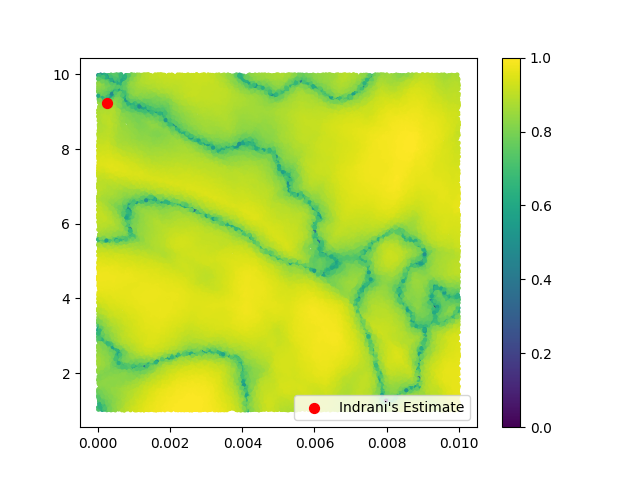
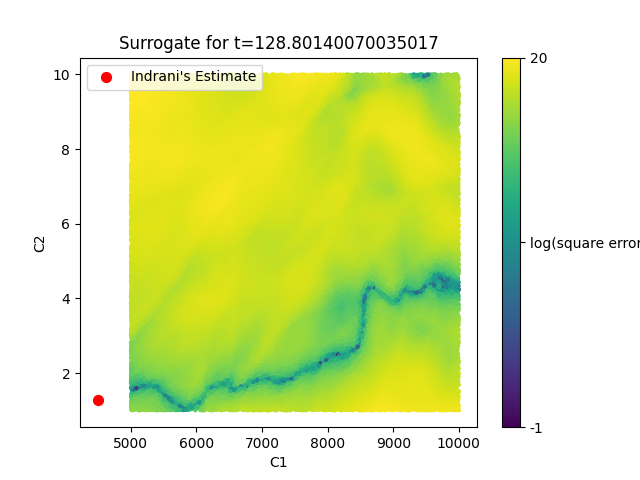
$

diff --git a/playground.py b/playground.py
@@ -234,20 +234,32 @@ dim = 5  # Dimensionality of the problem
 n_runs = 5
 
 # generate contour plots across the 5 different parameters.
-kon=random.uniform(1e-7,1e-2)
-koff=random.uniform(1,10)
-C1= 4499.4346#random.uniform(5e3,1e4)
-C2= 1.28873#random.uniform(1,10)
+# kon=random.uniform(1e-7,1e-2)
+# koff=random.uniform(1,10)
+
+varyingX = 2
+varyingY = 3
+kon = 0.000026
+koff = 9.23215
+C1 = 4499.4346#random.uniform(5e3,1e4)
+C2 = 1.28873#random.uniform(1,10)
+# C1 = random.uniform(5e3,1e4)
+# C2 = random.uniform(1,10)
 g= 0.0032684#random.uniform(1e-4,1e-2)
 # between k1 and k2 
 N = 100000
 surr_input = np.zeros((N,5))
-
-
-
+labels = ["k1", "k2", "C1", "C2", "g"]
+indraniTruth = np.array([kon, koff, C1, C2, g])
 for i in range(N):
-    surr_input[i] = np.array([random.uniform(1e-7,1e-2),random.uniform(1,10), C1, C2, g])
+    # surr_input[i] = np.array([random.uniform(1e-7,1e-2),random.uniform(1,10), C1, C2, g])
+    # surr_input[i] = np.array([kon,koff, random.uniform(5e3,1e4), random.uniform(1,10), g])
+    surr_input[i] = indraniTruth
+    randomVector = np.array([random.uniform(1e-7,1e-2), random.uniform(1,10), random.uniform(5e3,1e4), random.uniform(1,10), random.uniform(1e-4,1e-2) ])
+    surr_input[i,varyingX] = randomVector[varyingX]
+    surr_input[i, varyingY] = randomVector[varyingY]
     
+
 ys = get_corresponding_y(Y_dict["CD3z_46L"], actual_times)
 for i in range(len(surrogates)):
     evaluations = indrani_costss(surr_input, surrogates[i], ys[i], datasets[i], batch=False)  
@@ -255,10 +267,16 @@ for i in range(len(surrogates)):
     print(evaluations.max())
     print(evaluations.min())
     plt.figure()
-    norm = mcolors.Normalize(vmin=np.min(evaluations), vmax=np.max(evaluations))
-    plt.scatter(surr_input[:,0], surr_input[:,1] , c=(evaluations[:]),s=4, norm =norm)
-    plt.scatter(0.00026,9.232 ,c="r", s=50, label="Indrani's Estimate")
-    plt.colorbar()
+    # norm = mcolors.Normalize(vmin=np.min(evaluations), vmax=np.max(evaluations))
+    heat = np.log(evaluations)
+    plt.title("Surrogate for t="+ str(actual_times[i]))
+    plt.xlabel(labels[varyingX])
+    plt.ylabel(labels[varyingY])
+    plt.scatter(surr_input[:,varyingX], surr_input[:,varyingY] , c=heat,s=4)
+    plt.scatter(indraniTruth[varyingX], indraniTruth[varyingY], c="r", s=50, label="Indrani's Estimate")
+    colorbar = plt.colorbar()
+    colorbar.set_ticks([0, 0.5 ,1.0])  # Tick positions
+    colorbar.set_ticklabels([str(int(heat.min())),"log(square error)", str(int(heat.max()))])  # Tick labels
     plt.legend()
     plt.savefig("Surrogate"+str(i)+ "_Contour.png")
     plt.close()
